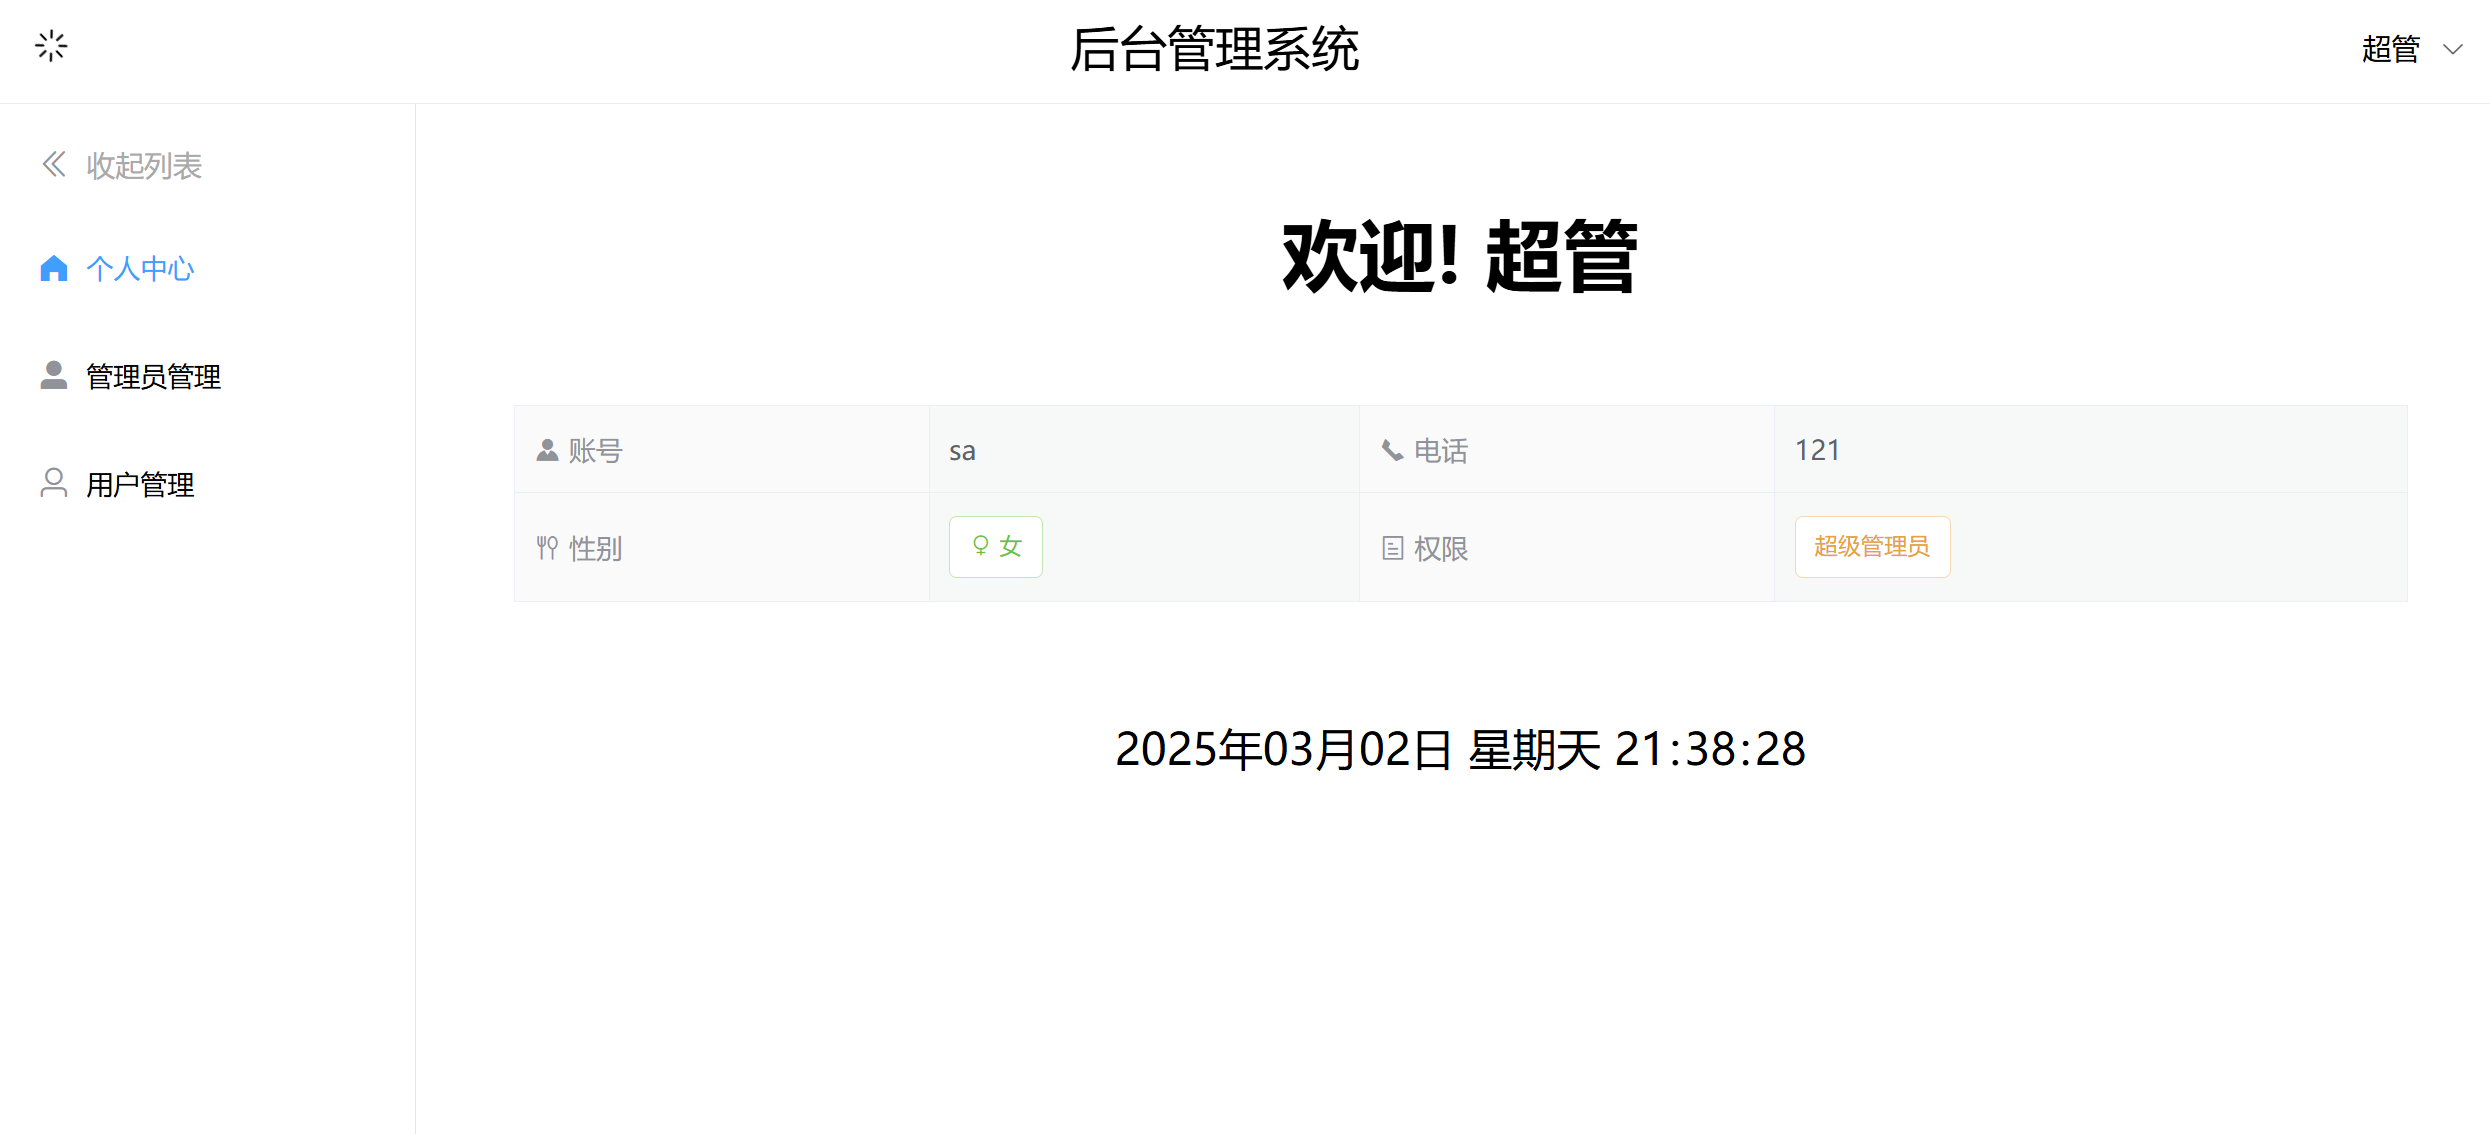
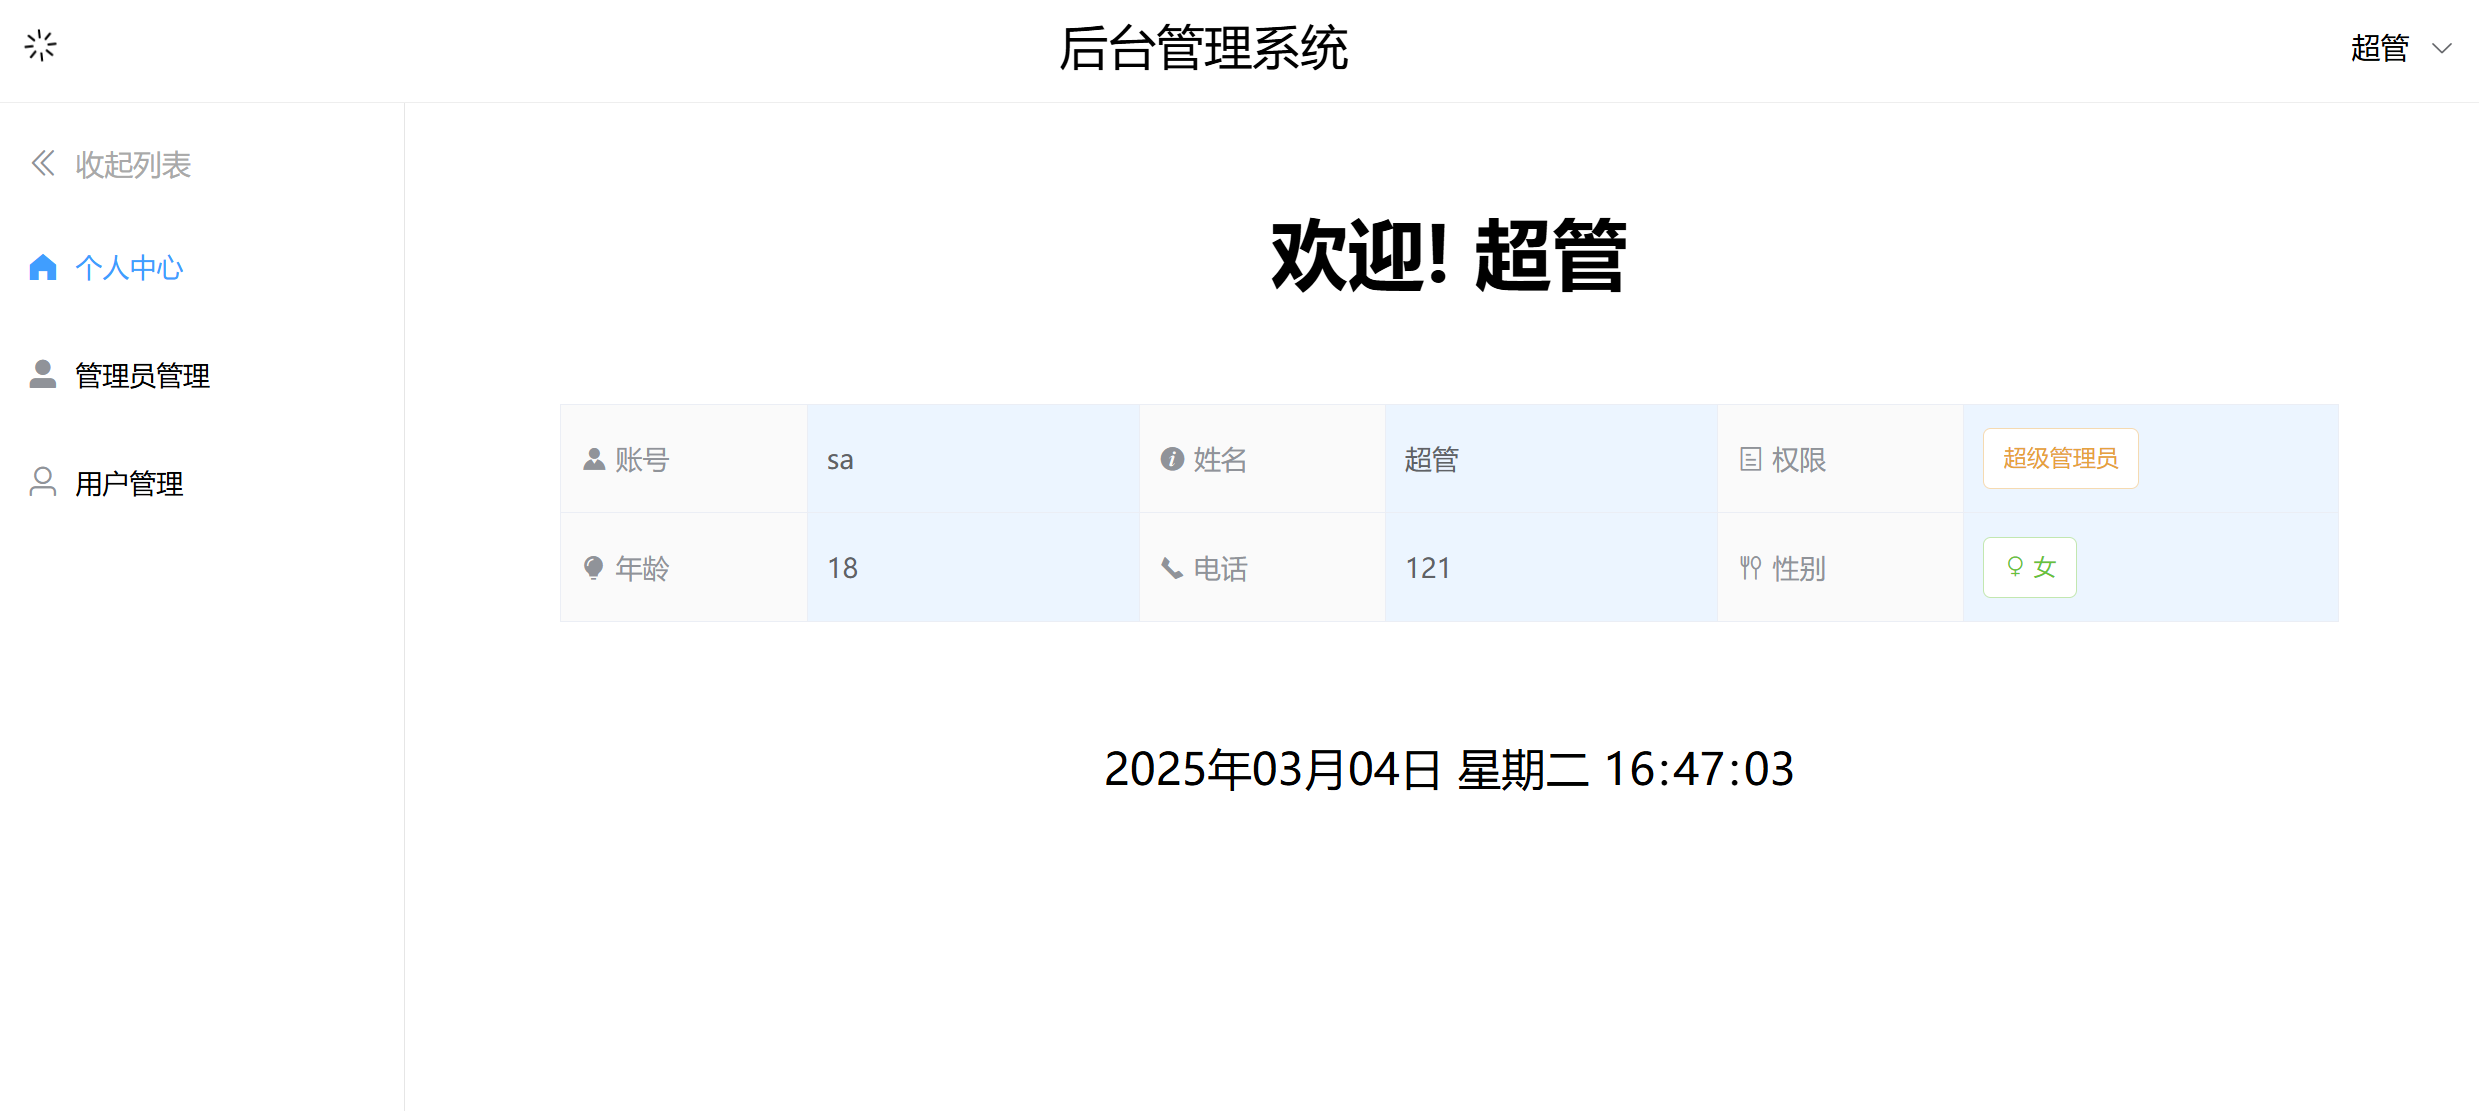
change frontend style; change README.md; change image

diff --git a/storehouse-frontend/src/usercenter/Center.vue b/storehouse-frontend/src/usercenter/Center.vue
@@ -16,13 +16,42 @@
     <h1 style="display: flex; align-items: center; justify-content: center; font-size: 40px;
     margin-top: 50px; margin-bottom: 53px">欢迎! {{user.name}}</h1>
 
-    <el-descriptions :column="2" size="50" border style="margin: 20px">
+    <el-descriptions :column="3" :size="30" border style="margin: 50px">
       <el-descriptions-item content-class-name="my-content">
         <template slot="label">
           <i class="el-icon-s-custom"></i>
           账号
         </template>
         {{user.account}}
+      </el-descriptions-item>
+
+      <el-descriptions-item content-class-name="my-content">
+        <template slot="label">
+          <i class="el-icon-info"></i>
+          姓名
+        </template>
+        {{user.name}}
+      </el-descriptions-item>
+
+      <el-descriptions-item content-class-name="my-content">
+        <template slot="label">
+          <i class="el-icon-tickets"></i>
+          权限
+        </template>
+        <el-tag
+            effect="plain"
+            :type="user.roleId == 0 ? 'warning' : user.roleId == 1 ? '' : 'info'"
+            disable-transitions>
+          {{user.roleId == 0 ? '超级管理员' : user.roleId == 1 ? '管理员' : '普通用户'}}
+        </el-tag>
+      </el-descriptions-item>
+
+      <el-descriptions-item content-class-name="my-content">
+        <template slot="label">
+          <i class="el-icon-s-opportunity"></i>
+          年龄
+        </template>
+        {{user.age}}
       </el-descriptions-item>
 
       <el-descriptions-item content-class-name="my-content">
@@ -47,18 +76,7 @@
         </el-tag>
       </el-descriptions-item>
 
-      <el-descriptions-item content-class-name="my-content">
-        <template slot="label">
-          <i class="el-icon-tickets"></i>
-          权限
-        </template>
-        <el-tag
-            effect="plain"
-            :type="user.roleId == 0 ? 'warning' : user.roleId == 1 ? '' : 'info'"
-            disable-transitions>
-          {{user.roleId == 0 ? '超级管理员' : user.roleId == 1 ? '管理员' : '普通用户'}}
-        </el-tag>
-      </el-descriptions-item>
+
 
     </el-descriptions>
 
@@ -68,6 +86,7 @@
 
 <style>
   .my-content {
-    background: #F7F9F9;
+    background: #ecf5ff;
+    min-width: 90px;
   }
 </style>

diff --git a/storehouse-frontend/src/manage/AdminManage.vue b/storehouse-frontend/src/manage/AdminManage.vue
@@ -254,7 +254,7 @@ export default {
 
 
     <el-table :data="tableData"
-              :header-cell-style="{background: '#f2f5fc', color: '#555'}"
+              :header-cell-style="{background: '#ecf5ff', color: '#555'}"
               border
     >
       <el-table-column prop="id" label="ID" width="110">

diff --git a/storehouse-frontend/src/manage/UserManage.vue b/storehouse-frontend/src/manage/UserManage.vue
@@ -254,7 +254,7 @@ export default {
 
 
     <el-table :data="tableData"
-              :header-cell-style="{background: '#f2f5fc', color: '#555'}"
+              :header-cell-style="{background: '#ecf5ff', color: '#555'}"
               border
     >
       <el-table-column prop="id" label="ID" width="110">

diff --git a/storehouse-frontend/src/login/Login.vue b/storehouse-frontend/src/login/Login.vue
@@ -81,7 +81,7 @@
     position: absolute;
     width: 100%;
     height: 100%;
-    background-color: #eee;
+    background-color: #ecf5ff;
   }
 
   .logindiv{

diff --git a/README.md b/README.md
@@ -1,5 +1,5 @@
 ### 项目说明
-基于网上资料学习后，创建的一个前后端分离的后台管理系统项目，前端使用Vue框架，后端使用SpringBoot框架，数据库使用MySQL。
+基于网上资料学习后，创建的一个前后端分离的后台管理系统项目，前端使用Vue框架，后端使用SpringBoot框架，数据库使用MySQL
 
 ### 项目预览
 <img alt="login" src="./display-image/login.png" style="width: 800px; height: 400px">
@@ -11,18 +11,18 @@
 
 ### 项目技术
 前端：
-- Vue
+- Vue 2
 - ElementUI
 - Axios
-- Vue-Router
-- Vuex
+- Vue-Router 3.5.4
+- Vuex 3.0.0
 
 后端：
-- SpringBoot
-- MyBatis
-- MyBatis-Plus
-- Maven
-- MySQL
+- Java 8
+- SpringBoot 2.7.6
+- MyBatis & MyBatis-Plus
+- Maven 3.8.8
+- MySQL 8
 
 ### 已实现功能
 - 用户登录
@@ -39,12 +39,34 @@
 
 ### 待实现功能
 未来可能实现的功能：
-- 用户注册界面
-- 仓库管理
+- 普通用户注册界面
+- 仓库管理或其他内容管理
+
+### 下载运行
+
+本项目使用IDEA进行后端开发，WebStorm进行前端开发；后端使用Maven 3.8.8进行包管理，前端使用node版本为18.20.6
+
+首先要连接自己的数据库，使用后端项目中sql文件夹中的脚本创建数据库和表
+
+依赖则可以参考下面的步骤配置
+
+配置后端子项目，先下载配置好Maven 3.8.8，之后同步pom.xml的设置即可
+
+配置前端子项目需要使用npm手动引入依赖，在前端项目文件夹打开终端，使用以下命令安装依赖
+``` bash
+npm i element-ui -S
+```
+``` bash
+npm i axios --save
+```
+``` bash
+npm i vue-router@3.5.4
+```
+``` bash
+npm i vuex@3.0.0
+```
 
 ### 其他
 项目的样式还需要进一步调整
 
 为方便上传，前后端子项目的.git目录已经删除
-
-后续项目更完善后应该会增加下载运行指南
